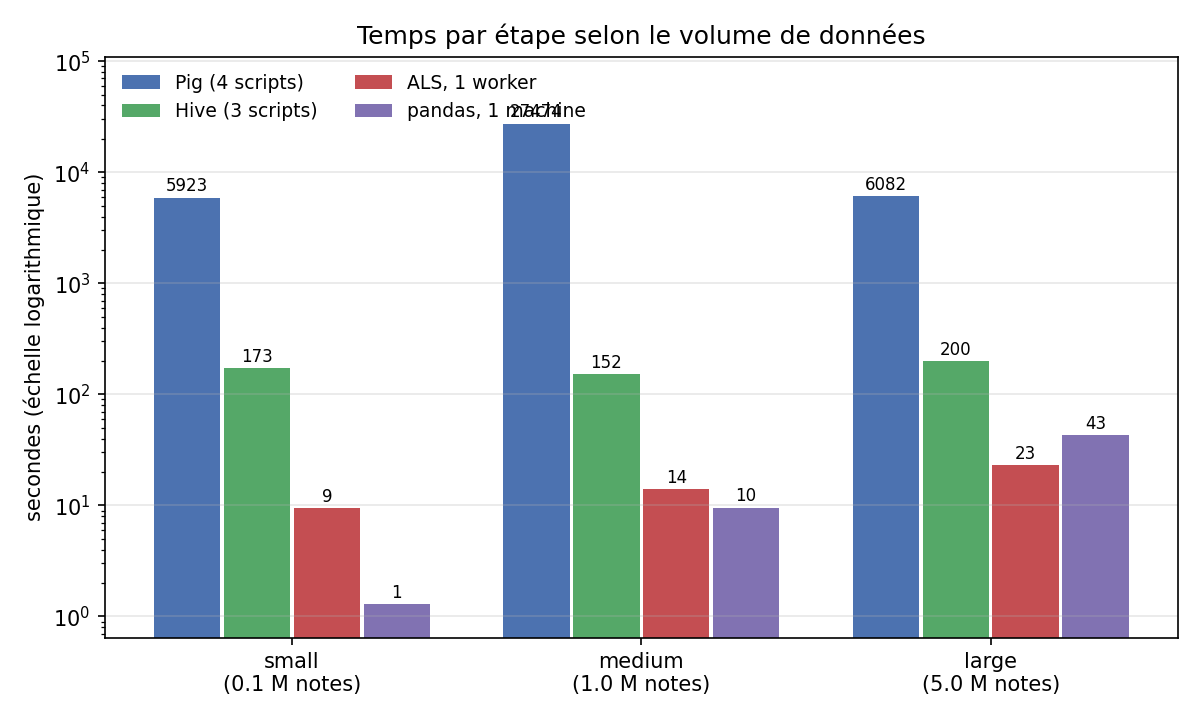
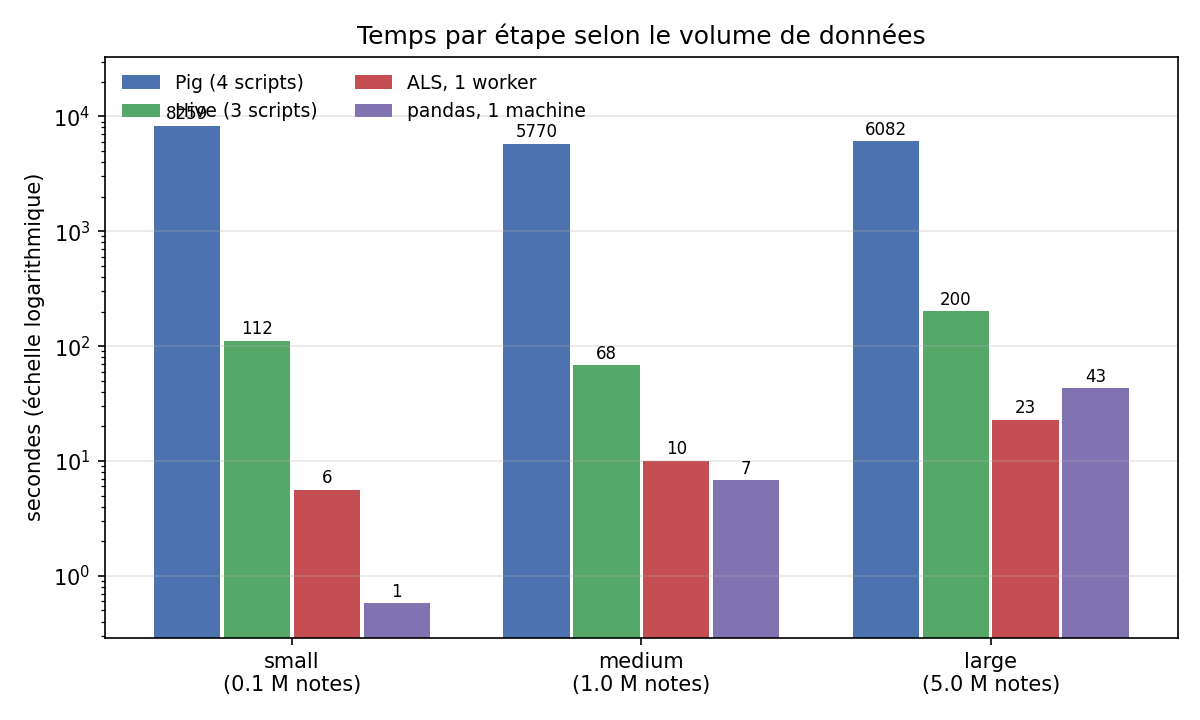
Phase 8 : benchmark small, medium et large

diff --git a/docs/benchmark_resultats.md b/docs/benchmark_resultats.md
@@ -14,32 +14,32 @@ Toutes les valeurs viennent des mesures de `bench/run.sh` ; "-" = non mesuré ou
 
 | Étape | small | medium | large |
 |---|---|---|---|
-| Chargement des CSV dans HDFS | 44.6 | 45.3 | 90.9 |
-| Pig 01 : clean_ratings | 561.8 | 576.8 | 626.9 |
-| Pig 02 : clean_reference | 2 248.3 | 2 251.1 | 2 255.9 |
-| Pig 03 : clean_logs_events | 1 132.8 | 22 674.3 | 1 161.2 |
-| Pig 04 : transform | 1 980.3 | 1 971.7 | 2 038.2 |
-| **Pig : total (4 scripts)** | 5 923.2 | 27 473.9 | 6 082.2 |
-| Hive 01 : tables_csv | 19.8 | 16.3 | 8.9 |
-| Hive 02 : tables_orc_parquet | 98.9 | 72.5 | 115.5 |
-| Hive 03 : features_ml | 54.6 | 62.8 | 76.0 |
-| **Hive : total (3 scripts)** | 173.3 | 151.6 | 200.4 |
+| Chargement des CSV dans HDFS | 75.0 | 64.6 | 90.9 |
+| Pig 01 : clean_ratings | 567.7 | 566.4 | 626.9 |
+| Pig 02 : clean_reference | 2 155.1 | 2 220.9 | 2 255.9 |
+| Pig 03 : clean_logs_events | 3 560.5 | 1 092.6 | 1 161.2 |
+| Pig 04 : transform | 1 975.5 | 1 889.6 | 2 038.2 |
+| **Pig : total (4 scripts)** | 8 258.8 | 5 769.5 | 6 082.2 |
+| Hive 01 : tables_csv | 9.0 | 5.7 | 8.9 |
+| Hive 02 : tables_orc_parquet | 66.2 | 39.1 | 115.5 |
+| Hive 03 : features_ml | 36.7 | 23.7 | 76.0 |
+| **Hive : total (3 scripts)** | 111.9 | 68.5 | 200.4 |
 
 ### Débit et croissance
 
 | Indicateur | small | medium | large |
 |---|---|---|---|
-| Pig : lignes traitées par seconde | 30 | 65 | 1 459 |
-| Hive : lignes traitées par seconde | 1 026 | 11 717 | 44 285 |
+| Pig : lignes traitées par seconde | 22 | 308 | 1 459 |
+| Hive : lignes traitées par seconde | 1 590 | 25 932 | 44 285 |
 
 Croissance entre jeux consécutifs (volume ×V, temps ×T ; T < V signifie que le temps fixe de démarrage des jobs pèse moins quand le volume augmente) :
 
 | Passage | Outil | Volume | Temps |
 |---|---|---|---|
-| small → medium | Pig | ×10.0 | ×4.6 |
-| small → medium | Hive | ×10.0 | ×0.9 |
-| medium → large | Pig | ×5.0 | ×0.2 |
-| medium → large | Hive | ×5.0 | ×1.3 |
+| small → medium | Pig | ×10.0 | ×0.7 |
+| small → medium | Hive | ×10.0 | ×0.6 |
+| medium → large | Pig | ×5.0 | ×1.1 |
+| medium → large | Hive | ×5.0 | ×2.9 |
 
 ## 3. Formats de stockage : CSV, ORC, Parquet
 
@@ -55,16 +55,16 @@ Temps de requête Hive sur `ratings` (moyenne de plusieurs exécutions, durée d
 
 | Jeu | Format / cas | A : filtre + moyenne (s) | B : regroupement par film (s) |
 |---|---|---|---|
-| small | csv | 3.8 | 8.1 |
-| small | orc | 4.3 | 5.0 |
-| small | parquet | 3.6 | 4.6 |
-| small | ORC, filtre sur la partition (année) | 3.6 | - |
-| small | ORC, même filtre sans la partition | 3.4 | - |
-| medium | csv | 5.4 | 5.7 |
-| medium | orc | 2.1 | 2.7 |
-| medium | parquet | 4.2 | 3.1 |
-| medium | ORC, filtre sur la partition (année) | 1.2 | - |
-| medium | ORC, même filtre sans la partition | 1.8 | - |
+| small | csv | 0.0 | 1.4 |
+| small | orc | 0.0 | 1.0 |
+| small | parquet | 0.3 | 1.5 |
+| small | ORC, filtre sur la partition (année) | 0.5 | - |
+| small | ORC, même filtre sans la partition | 0.0 | - |
+| medium | csv | 3.3 | 3.9 |
+| medium | orc | 1.8 | 3.2 |
+| medium | parquet | 1.6 | 3.1 |
+| medium | ORC, filtre sur la partition (année) | 3.3 | - |
+| medium | ORC, même filtre sans la partition | 3.2 | - |
 | large | csv | 4.9 | 6.3 |
 | large | orc | 2.9 | 2.2 |
 | large | parquet | 3.1 | 3.7 |
@@ -77,16 +77,16 @@ Même demande à chaque exécution (4 cœurs demandés, 2 par exécuteur, 1 Go c
 
 | Jeu | Notes (train) | 1 worker (s) | 2 workers (s) | Accélération | Efficacité | RMSE 1w | RMSE 2w | Exécuteurs 1w / 2w |
 |---|---|---|---|---|---|---|---|---|
-| small | 79 334 | 9.5 | 10.1 | ×0.94 | 47 % | 0.6615 | 0.6615 | 1 / 2 |
-| medium | 794 971 | 14.0 | 14.2 | ×0.98 | 49 % | 0.6533 | 0.6533 | 1 / 2 |
+| small | 79 334 | 5.6 | 7.3 | ×0.77 | 38 % | 0.6615 | 0.6615 | 1 / 2 |
+| medium | 794 971 | 10.0 | 13.7 | ×0.73 | 37 % | 0.6533 | 0.6533 | 1 / 2 |
 | large | 3 973 911 | 22.9 | 35.5 | ×0.65 | 32 % | 0.6439 | 0.6439 | 1 / 2 |
 
 Lecture ORC + mise en cache, et génération du top-5 de tous les utilisateurs :
 
 | Jeu | Lecture 1w (s) | Lecture 2w (s) | Top-5 1w (s) | Top-5 2w (s) |
 |---|---|---|---|---|
-| small | 21.7 | 19.8 | 6.9 | 12.8 |
-| medium | 18.4 | 23.4 | 10.8 | 13.1 |
+| small | 10.9 | 14.6 | 7.9 | 4.1 |
+| medium | 11.2 | 12.5 | 5.4 | 6.2 |
 | large | 18.9 | 21.9 | - | - |
 
 ## 5. Cluster ou une seule machine ? Pig contre pandas
@@ -95,21 +95,21 @@ Même nettoyage et mêmes transformations que les scripts Pig 01 à 04, avec pan
 
 | Jeu | pandas (s) | Pig (s) | Pig / pandas | Mémoire max pandas (Mo) | Lignes propres pandas = Pig |
 |---|---|---|---|---|---|
-| small | 1.3 | 5 923.2 | ×4592 | 152 | identiques |
-| medium | 9.5 | 27 473.9 | ×2886 | 591 | identiques |
+| small | 0.6 | 8 258.8 | ×14239 | 151 | identiques |
+| medium | 6.8 | 5 769.5 | ×847 | 590 | identiques |
 | large | 42.9 | 6 082.2 | ×142 | 2 504 | identiques |
 
 ## 6. Lecture des résultats
 
-- **Pig, small → medium** : le volume est multiplié par 10.0, le temps par 4.6. Le temps croît moins vite que le volume : le coût fixe de démarrage des jobs MapReduce domine encore.
-- **Hive, small → medium** : volume ×10.0, temps ×0.9.
-- **Pig, medium → large** : le volume est multiplié par 5.0, le temps par 0.2. Le temps croît moins vite que le volume : le coût fixe de démarrage des jobs MapReduce domine encore.
-- **Hive, medium → large** : volume ×5.0, temps ×1.3.
-- **small** : pandas traite le même nettoyage 4592 fois plus vite que Pig (1.3 s contre 5923 s). À ce volume une seule machine suffit : le cluster n'apporte pas de gain de vitesse.
-- **ALS, small** : 2 workers donnent une accélération de ×0.94 (efficacité 47 %). Le gain reste limité : les 2 workers partagent les mêmes CPU et le même disque, et les échanges entre exécuteurs coûtent du temps.
+- **Pig, small → medium** : le volume est multiplié par 10.0, le temps par 0.7. Le temps croît moins vite que le volume : le coût fixe de démarrage des jobs MapReduce domine encore.
+- **Hive, small → medium** : volume ×10.0, temps ×0.6.
+- **Pig, medium → large** : le volume est multiplié par 5.0, le temps par 1.1. Le temps croît moins vite que le volume : le coût fixe de démarrage des jobs MapReduce domine encore.
+- **Hive, medium → large** : volume ×5.0, temps ×2.9.
+- **small** : pandas traite le même nettoyage 14239 fois plus vite que Pig (0.6 s contre 8259 s). À ce volume une seule machine suffit : le cluster n'apporte pas de gain de vitesse.
+- **ALS, small** : 2 workers donnent une accélération de ×0.77 (efficacité 38 %). Le gain reste limité : les 2 workers partagent les mêmes CPU et le même disque, et les échanges entre exécuteurs coûtent du temps.
 - **Stockage, small** : ORC occupe 5.0 fois moins de place que le CSV, Parquet 3.0 fois moins.
-- **medium** : pandas traite le même nettoyage 2886 fois plus vite que Pig (9.5 s contre 27474 s). À ce volume une seule machine suffit : le cluster n'apporte pas de gain de vitesse.
-- **ALS, medium** : 2 workers donnent une accélération de ×0.98 (efficacité 49 %). Le gain reste limité : les 2 workers partagent les mêmes CPU et le même disque, et les échanges entre exécuteurs coûtent du temps.
+- **medium** : pandas traite le même nettoyage 847 fois plus vite que Pig (6.8 s contre 5770 s). À ce volume une seule machine suffit : le cluster n'apporte pas de gain de vitesse.
+- **ALS, medium** : 2 workers donnent une accélération de ×0.73 (efficacité 37 %). Le gain reste limité : les 2 workers partagent les mêmes CPU et le même disque, et les échanges entre exécuteurs coûtent du temps.
 - **Stockage, medium** : ORC occupe 5.1 fois moins de place que le CSV, Parquet 3.5 fois moins.
 - **large** : pandas traite le même nettoyage 142 fois plus vite que Pig (42.9 s contre 6082 s). À ce volume une seule machine suffit : le cluster n'apporte pas de gain de vitesse.
 - **ALS, large** : 2 workers donnent une accélération de ×0.65 (efficacité 32 %). Le gain reste limité : les 2 workers partagent les mêmes CPU et le même disque, et les échanges entre exécuteurs coûtent du temps.
